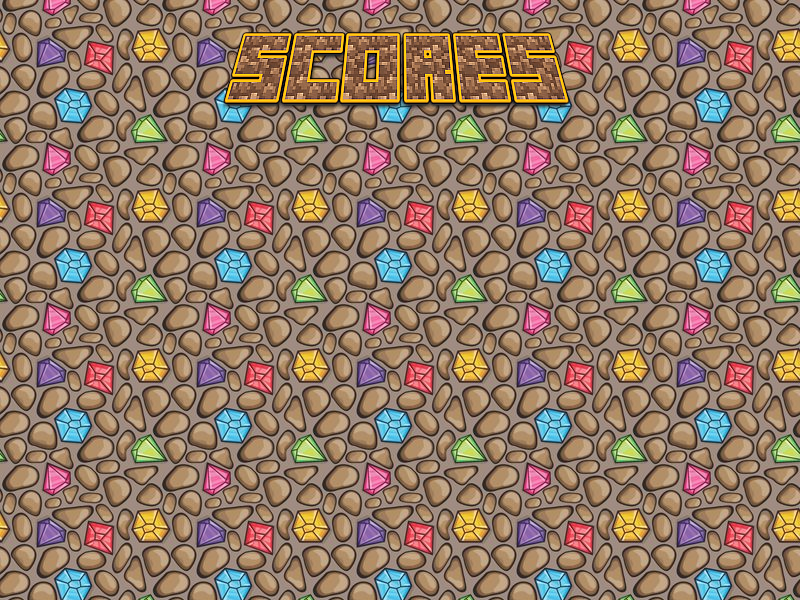
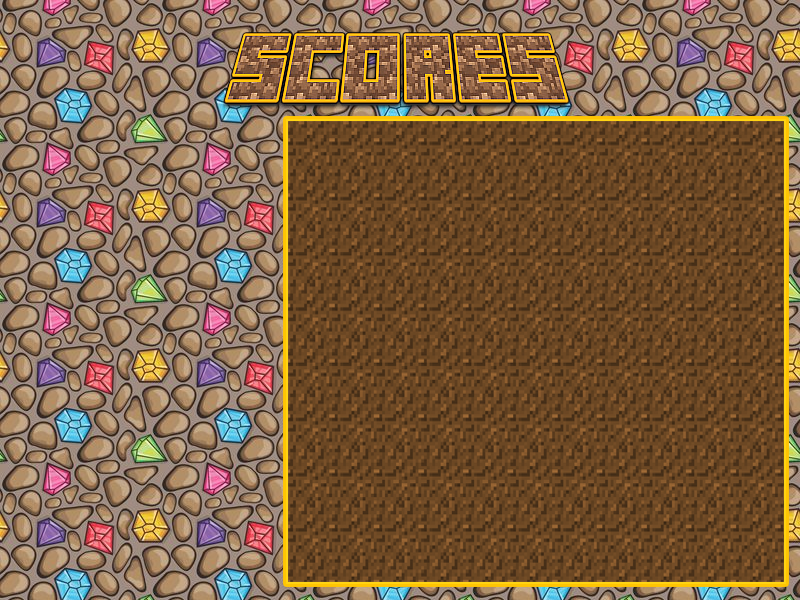
Modified scores background, Added scores font to resources, Added viewing scores logic

diff --git a/MI/MI/MI/Scores.cs b/MI/MI/MI/Scores.cs
@@ -13,7 +13,8 @@ namespace MI
         //  Positions: Buttons, Buttons Texts
         private static Vector2 backButtonPosition = new Vector2(50, 525), computerScoresButtonPosition = new Vector2(30, 150), humanScoresButtonPosition = new Vector2(30, 220), mixedScoresButtonPosition = new Vector2(30, 300), SAScoresButtonPosition = new Vector2(30, 380);
         private static Vector2 backButtonTextPosition = new Vector2(100.0f, 547.5f), computerScoresButtonTextPosition = new Vector2(130f, 172.5f), humanScoresButtonTextPosition = new Vector2(130f, 242.5f), mixedScoresButtonTextPosition = new Vector2(130f, 322.5f), SAScoresButtonTextPosition = new Vector2(130f, 402.5f);
-
+        private static Vector2 scoresTableHeaderPosition = new Vector2(300, 150);
+        
         // Previous Mouse State: Used for detecting single clicks
         private static MouseState prevMouseState = Mouse.GetState();
 
@@ -103,6 +104,24 @@ namespace MI
             spriteBatch.DrawString(Resources.menuButtonsFont, "mixed", mixedScoresButtonTextPosition, mixedScoresHover ? Resources.hoverFontColor : Resources.normalFontColor);
             spriteBatch.Draw(scoreType == ScoreType.SA ? Resources.checkboxCheckedBackground : Resources.checkboxUncheckedBackground, SAScoresButtonPosition, Color.White);
             spriteBatch.DrawString(Resources.menuButtonsFont, "SA", SAScoresButtonTextPosition, SAScoresHover ? Resources.hoverFontColor : Resources.normalFontColor);
+
+            //Table
+            spriteBatch.DrawString(Resources.scoresFont, String.Format("{0} {1,10} {2,10} {3,15} {4,5}", "Alg", "#Nodes", "#Diamonds", "All Diamonds", "Time"), scoresTableHeaderPosition, Color.White);
+            switch (scoreType)
+            {
+                case(ScoreType.COMPUTER):
+                    printScores(spriteBatch, GameHandler.ComputerScores);
+                    break;
+                case (ScoreType.HUMAN):
+                    printScores(spriteBatch, GameHandler.HumanScores);
+                    break;
+                case (ScoreType.MIXED):
+                    printScores(spriteBatch, GameHandler.Scores);
+                    break;
+                case (ScoreType.SA):
+                    printScores(spriteBatch, GameHandler.SAScores);
+                    break;
+            }
         }
 
         public static void Reset()
@@ -110,6 +129,38 @@ namespace MI
             backHover = computerScoresHover = humanScoresHover = mixedScoresHover = SAScoresHover = false;
             scoreType = ScoreType.COMPUTER;
             prevMouseState = new MouseState(0, 0, 0, ButtonState.Released, ButtonState.Released, ButtonState.Released, ButtonState.Released, ButtonState.Released);
+        }
+
+        private static void printScores(SpriteBatch spriteBatch, SortedSet<Score> scoresSet)
+        {
+            int j = 1;
+            for (int i = 0; i < 10 && i < scoresSet.Count; i++)
+            {
+                Score s = scoresSet.ElementAt(i);
+                switch (s.AlgorithmName)
+                {
+                    case "IDDFS":
+                        spriteBatch.DrawString(Resources.scoresFont, String.Format("{0} {1,5} {2,14} {3,15} {4,15}", s.AlgorithmName, s.NumberOfNodes, s.NumberOfDiamonds, s.AllDiamondsCollected, s.TimeElapsed.ToString(@"mm\:ss\:ffff")), new Vector2(scoresTableHeaderPosition.X, scoresTableHeaderPosition.Y + (j * 50)), Color.White);
+                        j++;
+                        break;
+                    case "A*":
+                        spriteBatch.DrawString(Resources.scoresFont, String.Format("{0} {1,12} {2,15} {3,15} {4,15}", s.AlgorithmName, s.NumberOfNodes, s.NumberOfDiamonds, s.AllDiamondsCollected, s.TimeElapsed.ToString(@"mm\:ss\:ffff")), new Vector2(scoresTableHeaderPosition.X, scoresTableHeaderPosition.Y + (j * 50)), Color.White);
+                        j++;
+                        break;
+                    case "SA":
+                        spriteBatch.DrawString(Resources.scoresFont, String.Format("{0} {1,11} {2,15} {3,15} {4,15}", s.AlgorithmName, s.NumberOfNodes, s.NumberOfDiamonds, s.AllDiamondsCollected, s.TimeElapsed.ToString(@"mm\:ss\:ffff")), new Vector2(scoresTableHeaderPosition.X, scoresTableHeaderPosition.Y + (j * 50)), Color.White);
+                        j++;
+                        break;
+                    case "CSP":
+                        spriteBatch.DrawString(Resources.scoresFont, String.Format("{0} {1,10} {2,14} {3,15} {4,15}", s.AlgorithmName, s.NumberOfNodes, s.NumberOfDiamonds, s.AllDiamondsCollected, s.TimeElapsed.ToString(@"mm\:ss\:ffff")), new Vector2(scoresTableHeaderPosition.X, scoresTableHeaderPosition.Y + (j * 50)), Color.White);
+                        j++;
+                        break;
+                    case "Human":
+                        spriteBatch.DrawString(Resources.scoresFont, String.Format("{0} {1,5} {2,15} {3,15} {4,15}", s.AlgorithmName, s.NumberOfNodes, s.NumberOfDiamonds, s.AllDiamondsCollected, s.TimeElapsed.ToString(@"mm\:ss\:ffff")), new Vector2(scoresTableHeaderPosition.X, scoresTableHeaderPosition.Y + (j * 50)), Color.White);
+                        j++;
+                        break;
+                }
+            }
         }
     }
 

diff --git a/MI/MI/MI/Resources.cs b/MI/MI/MI/Resources.cs
@@ -16,7 +16,8 @@ namespace MI
         public static Texture2D mainMenuBackground, scoresBackground, buttonBackground, startOptionsButtonBackground, checkboxCheckedBackground, checkboxUncheckedBackground, gameMapBackground, dirtTile, playerTile, emptyTile, diamondTile, rockTile, wallTile, deadTile;
         
         // Font
-        public static SpriteFont menuButtonsFont;
+        public static SpriteFont menuButtonsFont, scoresFont;
+
         // Font Colors
         public static Color normalFontColor = Color.FromNonPremultiplied(239, 167, 20, 255), hoverFontColor = Color.FromNonPremultiplied(196, 18, 1, 255);
 
@@ -47,6 +48,7 @@ namespace MI
             checkboxUncheckedBackground = content.Load<Texture2D>("Images/CheckBox_Unchecked");
             startOptionsButtonBackground = content.Load<Texture2D>("Images/StartOptionsButtonBackground");
             menuButtonsFont = content.Load<SpriteFont>("Fonts/MenuButtonsFont");
+            scoresFont = content.Load<SpriteFont>("Fonts/ScoresFont");
 
             pickupDiamond = content.Load<SoundEffect>("Audio/Pickup_Coin4");
             tada = content.Load<SoundEffect>("Audio/Tada");
